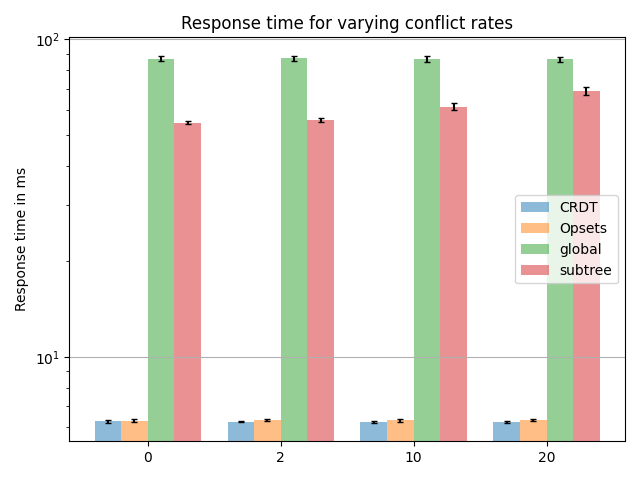
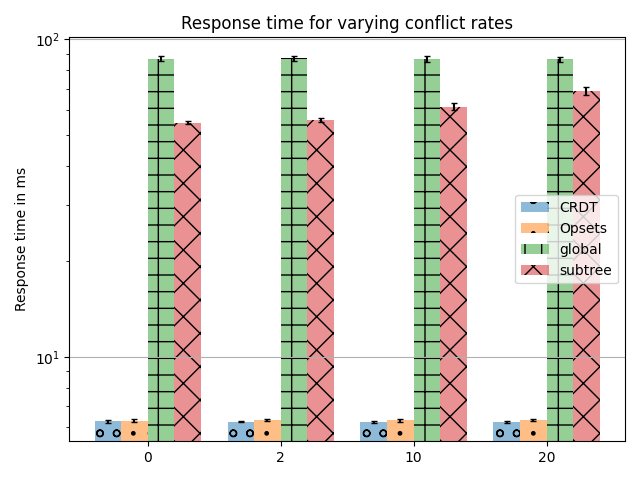
patterned graph

diff --git a/reports/report_generator.py b/reports/report_generator.py
@@ -308,10 +308,10 @@ resperr3 = [np.std(np.array(responses[2][con][3])) for con in responses[2]]
 
 # Build the plot
 fig, ax = plt.subplots()
-bar0 = ax.bar(x_pos - 1.5*width, resp0, width, yerr=resperr0, align='center', alpha=0.5, ecolor='black', capsize=2)
-bar1 = ax.bar(x_pos - width/2, resp1, width, yerr=resperr1, align='center', alpha=0.5, ecolor='black', capsize=2)
-bar2 = ax.bar(x_pos + width/2, resp2, width, yerr=resperr2, align='center', alpha=0.5, ecolor='black', capsize=2)
-bar3 = ax.bar(x_pos + 1.5*width, resp3, width, yerr=resperr3, align='center', alpha=0.5, ecolor='black', capsize=2)
+bar0 = ax.bar(x_pos - 1.5*width, resp0, width, yerr=resperr0, align='center', alpha=0.5, hatch='o', capsize=2)
+bar1 = ax.bar(x_pos - width/2, resp1, width, yerr=resperr1, align='center', alpha=0.5, hatch='.', capsize=2)
+bar2 = ax.bar(x_pos + width/2, resp2, width, yerr=resperr2, align='center', alpha=0.5, hatch='+', capsize=2)
+bar3 = ax.bar(x_pos + 1.5*width, resp3, width, yerr=resperr3, align='center', alpha=0.5, hatch='x', capsize=2)
 ax.set_ylabel('Response time in ms')
 ax.set_xticks(x_pos)
 ax.set_xticklabels([0, 2, 10, 20])
@@ -336,10 +336,14 @@ mresperr3 = [np.std(np.array(move_responses[2][con][3])) for con in move_respons
 
 # Build the plot
 fig, ax = plt.subplots()
-bar0 = ax.bar(x_pos - 1.5*width, mresp0, width, yerr=mresperr0, align='center', alpha=0.5, ecolor='black', capsize=2)
-bar1 = ax.bar(x_pos - width/2, mresp1, width, yerr=mresperr1, align='center', alpha=0.5, ecolor='black', capsize=2)
-bar2 = ax.bar(x_pos + width/2, mresp2, width, yerr=mresperr2, align='center', alpha=0.5, ecolor='black', capsize=2)
-bar3 = ax.bar(x_pos + 1.5*width, mresp3, width, yerr=mresperr3, align='center', alpha=0.5, ecolor='black', capsize=2)
+# bar0 = ax.bar(x_pos - 1.5*width, mresp0, width, yerr=mresperr0, align='center', alpha=0.5, ecolor='black', capsize=2)
+# bar1 = ax.bar(x_pos - width/2, mresp1, width, yerr=mresperr1, align='center', alpha=0.5, ecolor='black', capsize=2)
+# bar2 = ax.bar(x_pos + width/2, mresp2, width, yerr=mresperr2, align='center', alpha=0.5, ecolor='black', capsize=2)
+# bar3 = ax.bar(x_pos + 1.5*width, mresp3, width, yerr=mresperr3, align='center', alpha=0.5, ecolor='black', capsize=2)
+bar0 = ax.bar(x_pos - 1.5*width, mresp0, width, yerr=mresperr0, align='center', alpha=0.5, hatch='o', capsize=2)
+bar1 = ax.bar(x_pos - width/2, mresp1, width, yerr=mresperr1, align='center', alpha=0.5, hatch='.', capsize=2)
+bar2 = ax.bar(x_pos + width/2, mresp2, width, yerr=mresperr2, align='center', alpha=0.5, hatch='+', capsize=2)
+bar3 = ax.bar(x_pos + 1.5*width, mresp3, width, yerr=mresperr3, align='center', alpha=0.5, hatch='x', capsize=2)
 ax.set_ylabel('Response time in ms')
 ax.set_xticks(x_pos)
 ax.set_xticklabels([0, 2, 10, 20])
@@ -365,8 +369,8 @@ staberr1 = [np.std(np.array(stabilizations[l][0][1])) for l in stabilizations]
 
 # Build the plot
 fig, ax = plt.subplots()
-bar0 = ax.bar(x_pos - width/2, stab0, width, yerr=staberr0, align='center', alpha=0.5, ecolor='black', capsize=2)
-bar1 = ax.bar(x_pos + width/2, stab1, width, yerr=staberr1, align='center', alpha=0.5, ecolor='black', capsize=2)
+bar0 = ax.bar(x_pos - width/2, stab0, width, yerr=staberr0, align='center', alpha=0.5, hatch='o', capsize=2)
+bar1 = ax.bar(x_pos + width/2, stab1, width, yerr=staberr1, align='center', alpha=0.5, hatch='.', capsize=2)
 ax.set_ylabel('Stabilization time in ms')
 ax.set_xticks(x_pos)
 ax.set_xticklabels([1, 2, 3])
